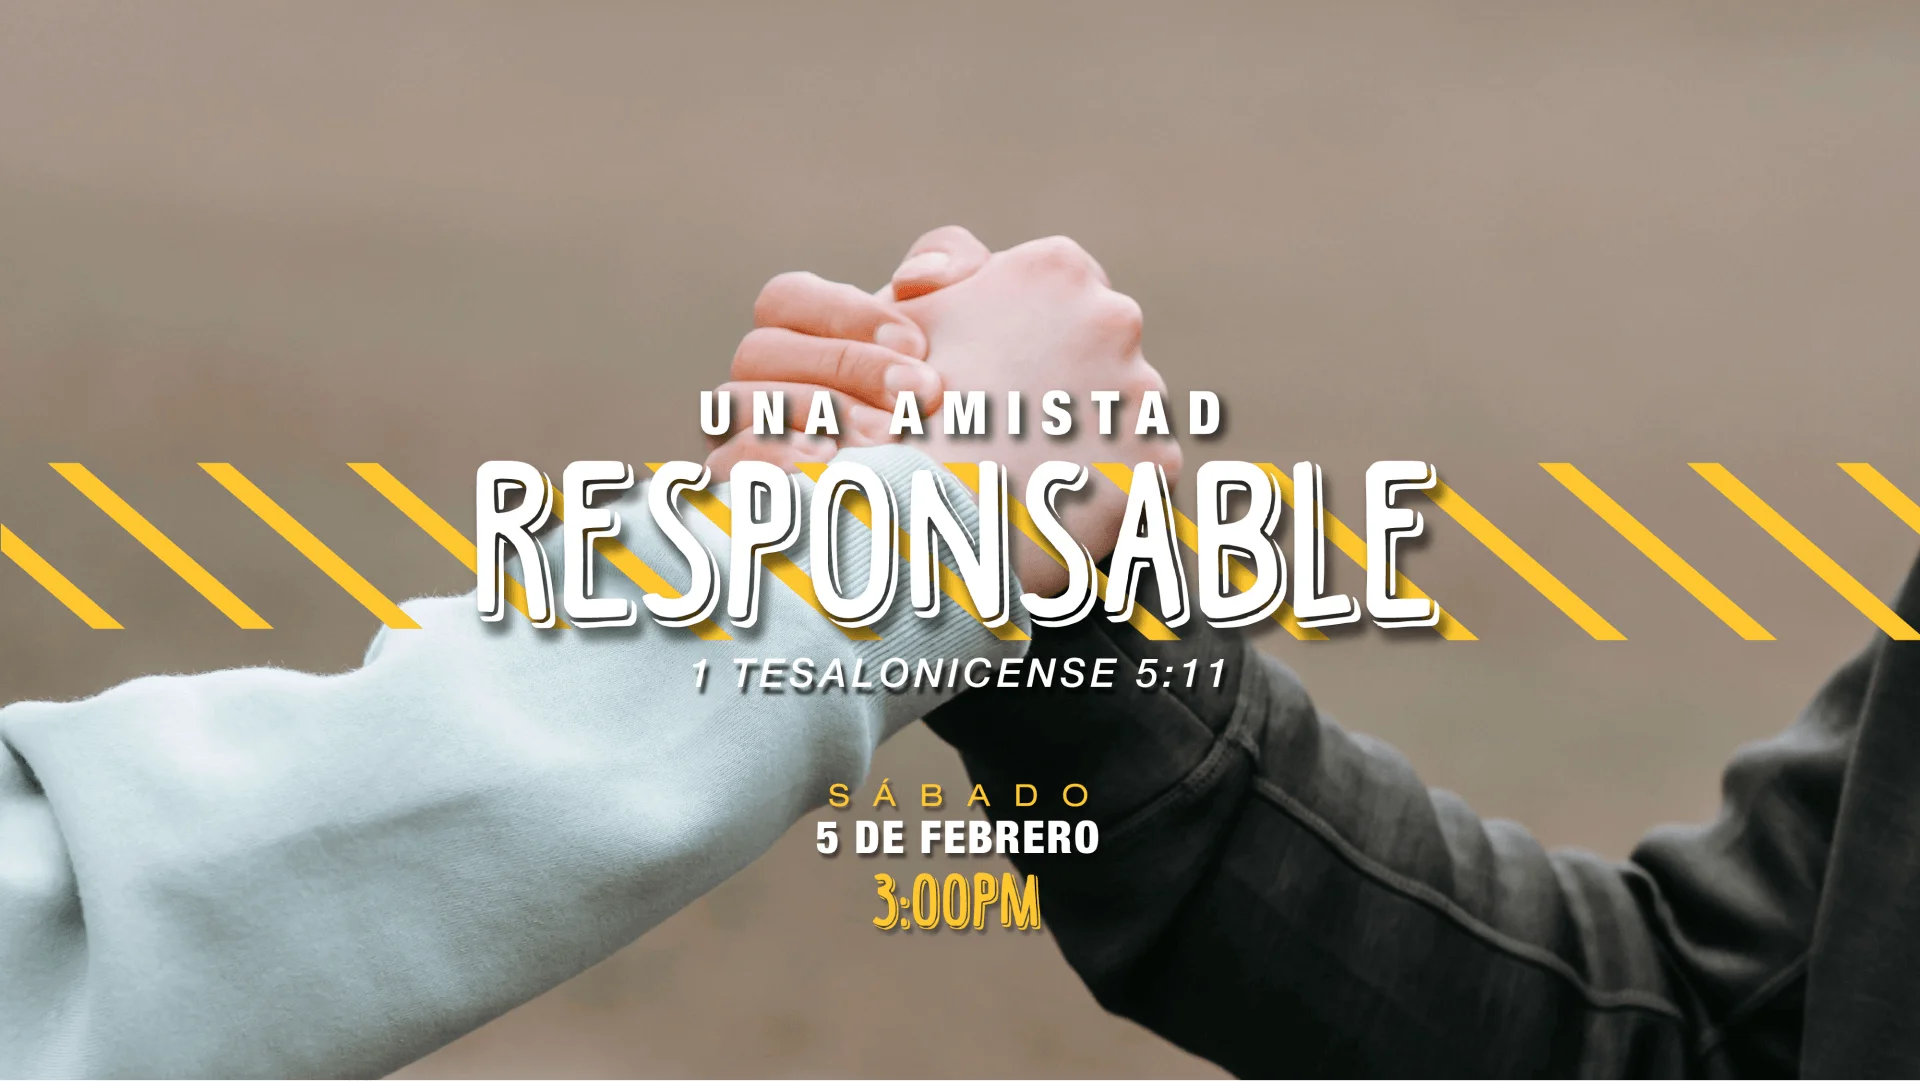
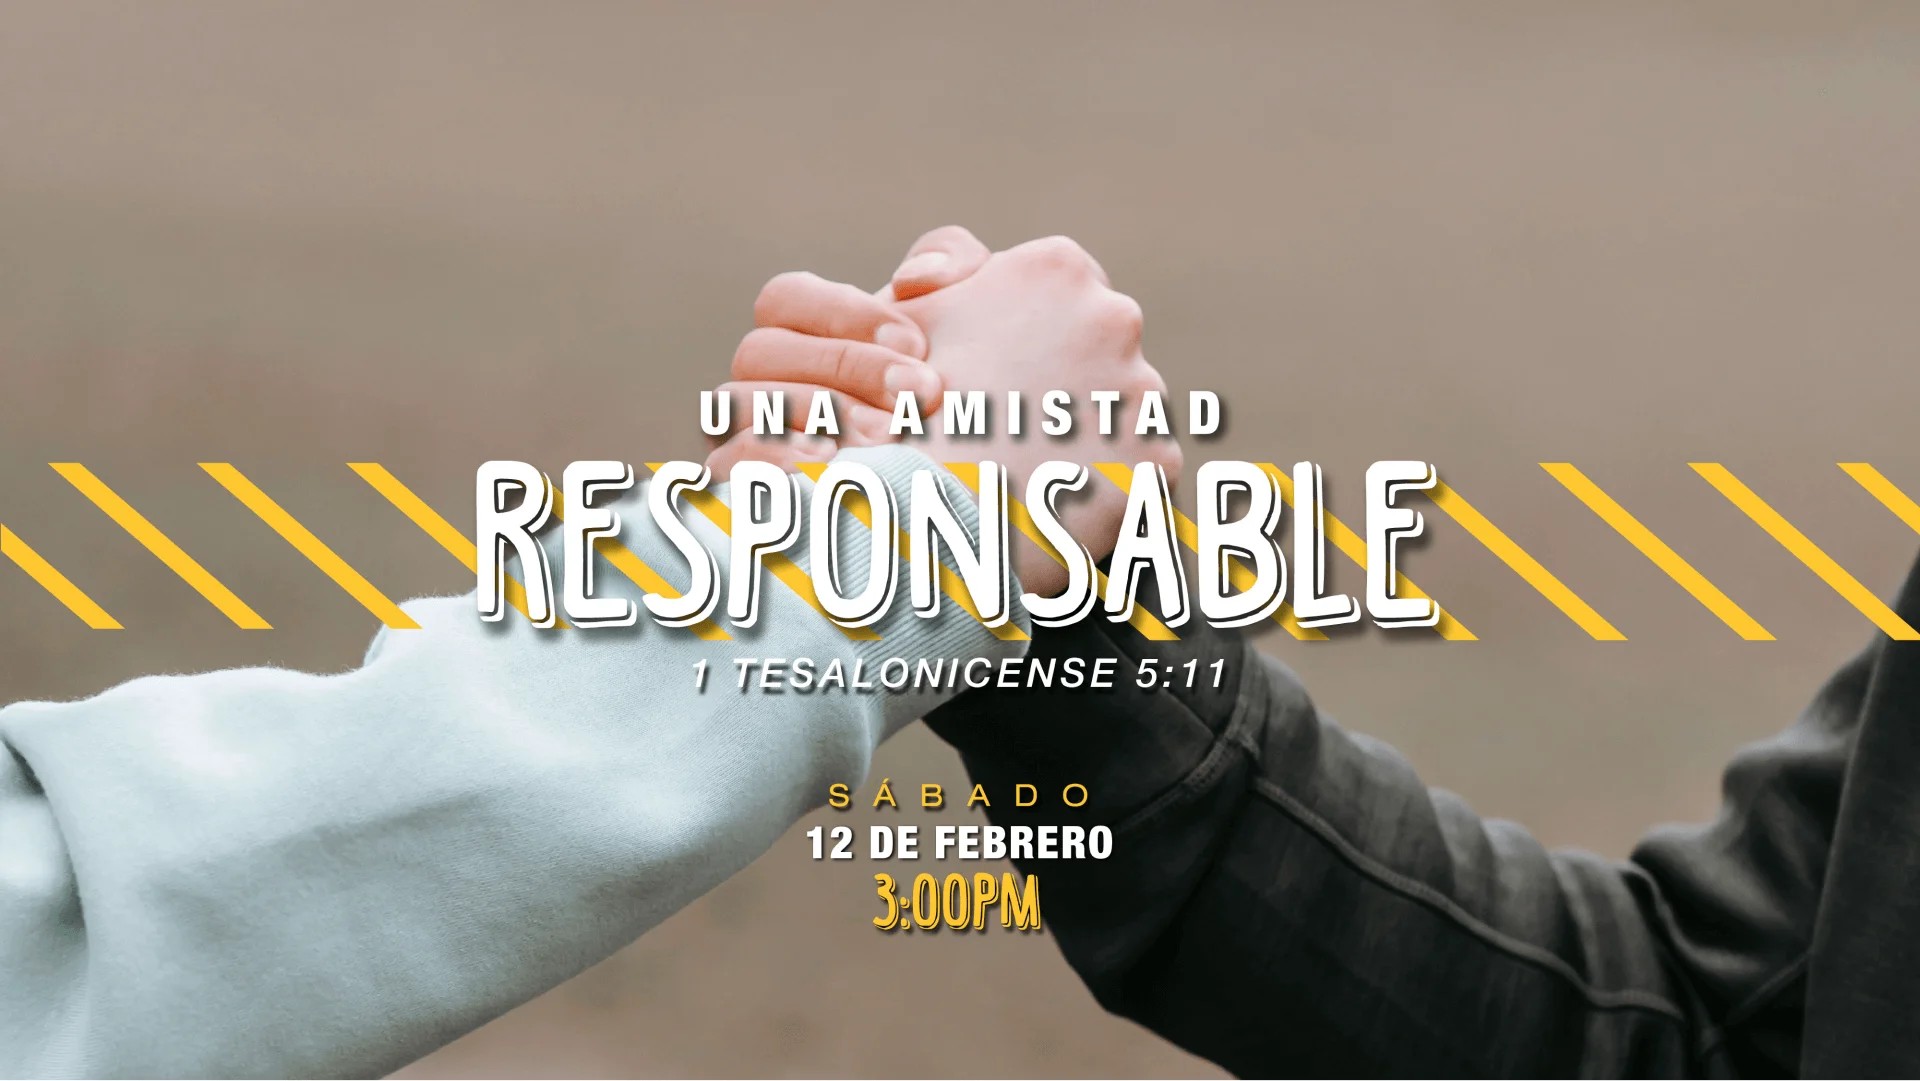
update: local event

Changed region(s): [[0.4062, 0.7327, 0.5938, 0.8853]]

diff --git a/components/pages/home/SliderHome/index.tsx b/components/pages/home/SliderHome/index.tsx
@@ -8,8 +8,7 @@ import { DefaultItem } from './Items'
 
 import 'swiper/css/bundle'
 import 'swiper/css/pagination'
-// import { LocalEvents2 } from './Items/LocalEvents2'
-// import { LocalEvent } from './Items/LocalEvent'
+import { LocalEvent } from './Items/LocalEvent'
 
 SwiperCore.use([Pagination, Autoplay])
 
@@ -27,13 +26,9 @@ export const Slider = () => {
             <DefaultItem />
           </SwiperSlide>
 
-          {/* <SwiperSlide>
+          <SwiperSlide>
             <LocalEvent />
-          </SwiperSlide> */}
-
-          {/* <SwiperSlide>
-            <LocalEvents2 />
-          </SwiperSlide> */}
+          </SwiperSlide>
 
           {/* {
             (topicOfTheMonth?.desktop?.length >= 1 || topicOfTheMonth?.mobile?.length >= 1) && (

diff --git a/components/pages/home/SliderHome/Items/LocalEvent.tsx b/components/pages/home/SliderHome/Items/LocalEvent.tsx
@@ -1,6 +1,6 @@
 import Image from 'next/image'
-import eventSrcDesktop from 'public/img/banner/event2-desktop.webp'
-import eventSrcMobile from 'public/img/banner/event2-mobile.webp'
+import eventSrcDesktop from 'public/img/banner/event-desktop.webp'
+import eventSrcMobile from 'public/img/banner/event-mobile.webp'
 
 export const LocalEvent = () => (
   <div className='h-full'>

diff --git a/components/pages/contactanos/FormContact/EmailContact.tsx b/components/pages/contactanos/FormContact/EmailContact.tsx
@@ -20,7 +20,7 @@ export const EmailContact = () => {
       message: data.message
     }
 
-    fetch('https://enurp4m5z4savwe.m.pipedream.net', {
+    fetch('https://eott4hh0u1tstx2.m.pipedream.net', {
       method: 'POST',
       body: JSON.stringify(dataNormalize)
     }).then(() => {
